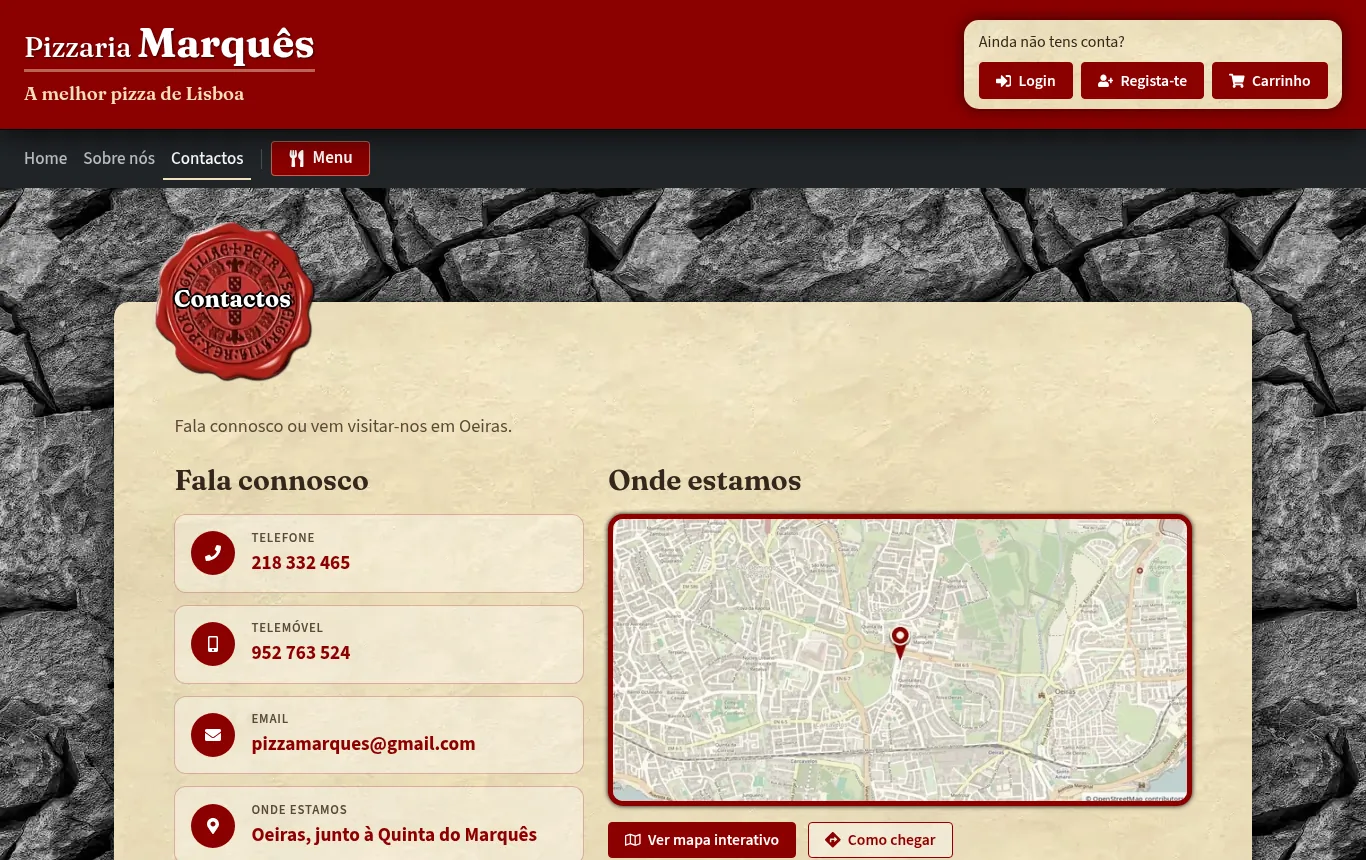
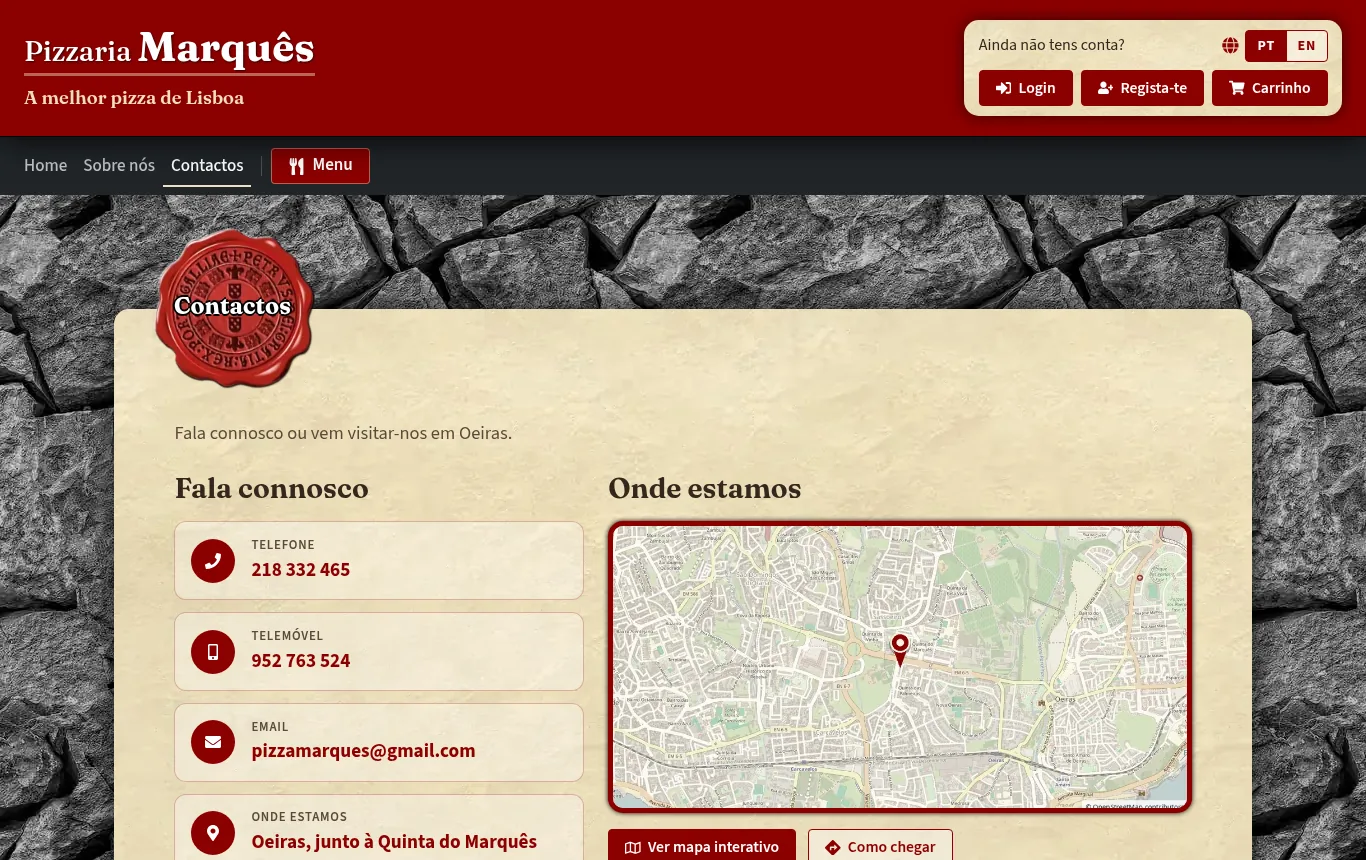
Update README screenshots for the English version and the new cart
Retake the desktop and phone screenshots (same sizes and framing as
before) so they show the PT / EN switch, the cart count, the quantity
stepper and the cart controls, and add two: the cart, and the home page
in English with its English banner. The README's screenshot section now
pairs Menu with Cart and Home in English with Sobre nós, with descriptive
alt text; the note that the screenshots were outdated is gone.

diff --git a/README.md b/README.md
@@ -33,19 +33,22 @@ with a small, hand-tuned front end.
 
 ## Screenshots
 
-| Menu | Sobre nós |
+| Menu, right after adding a pizza | Cart |
 |---|---|
-| ![Menu](docs/images/desktop-menu.webp) | ![Sobre nós](docs/images/desktop-sobre.webp) |
+| ![Menu: the quantity stepper, the "Adicionado" confirmation, the notice with a link to the cart and the cart count in the header](docs/images/desktop-menu.webp) | ![Cart: each line with a quantity stepper and a Remover button, next to the delivery and payment options](docs/images/desktop-carrinho.webp) |
+
+| Home in English | Sobre nós |
+|---|---|
+| ![Home page in English, with the English banner](docs/images/desktop-home-en.webp) | ![Sobre nós](docs/images/desktop-sobre.webp) |
 
 | Contactos | Login |
 |---|---|
-| ![Contactos](docs/images/desktop-contactos.webp) | ![Login](docs/images/desktop-login.webp) |
+| ![Contactos](docs/images/desktop-contactos.webp) | ![Login, with the PT / EN switch in the corner](docs/images/desktop-login.webp) |
 
-On phones (390 px): home, menu and *Sobre nós*.
+On phones (390 px): home (with the PT / EN switch and the cart count), the menu's quantity stepper,
+and the cart.
 
-The screenshots predate the PT / EN switch, the quantity stepper and the cart controls.
-
-![Mobile layouts](docs/images/mobile.webp)
+![Mobile layouts: home, menu and cart](docs/images/mobile.webp)
 
 ## Tech stack
 
